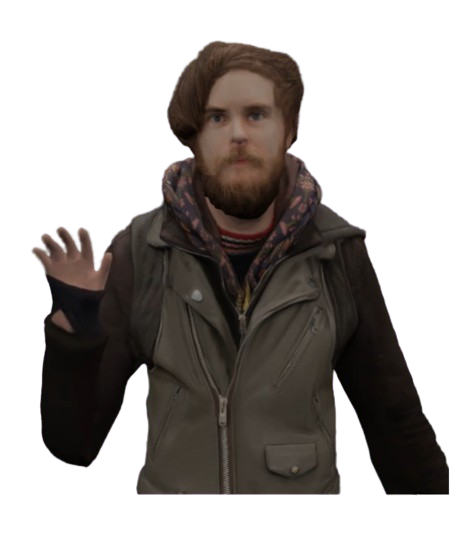
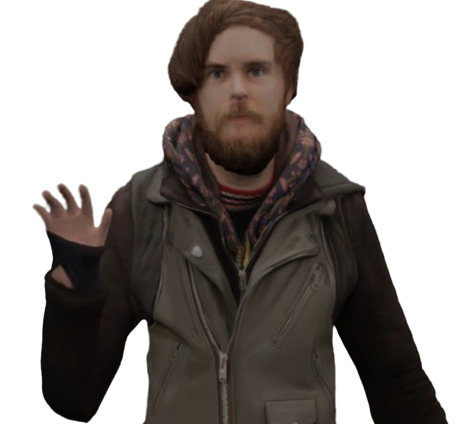
subscription screen

diff --git a/frontend/lib/screens/primary/subscription.dart b/frontend/lib/screens/primary/subscription.dart
@@ -171,38 +171,48 @@ class _SubscriptionState extends State<Subscription> {
                                     ],
                                   ),
                                 ),
-                                const SizedBox(height: 4),
-                                Row(
-                                  children: [
-                                    Text(
-                                      "\$30",
-                                      style:
-                                          Theme.of(context).textTheme.bodySmall,
-                                    ),
-                                    Text(
-                                      "/month",
-                                      style:
-                                          Theme.of(context).textTheme.bodySmall,
-                                    ),
-                                  ],
-                                ),
-                                Center(
-                                  child: ElevatedButton(
-                                    onPressed: () {},
-                                    child: Text("Choose"),
+                                const Spacer(),
+                                Padding(
+                                  padding: const EdgeInsets.only(
+                                      left: 8, bottom: 20),
+                                  child: Column(
+                                    children: [
+                                      Row(
+                                        children: [
+                                          Text(
+                                            "\$30",
+                                            style: Theme.of(context)
+                                                .textTheme
+                                                .bodySmall,
+                                          ),
+                                          Text(
+                                            "/month",
+                                            style: Theme.of(context)
+                                                .textTheme
+                                                .bodySmall,
+                                          ),
+                                        ],
+                                      ),
+                                      Center(
+                                        child: ElevatedButton(
+                                          onPressed: () {},
+                                          child: const Text("Choose"),
+                                        ),
+                                      )
+                                    ],
                                   ),
-                                )
+                                ),
                               ],
                             ),
                           ),
                           Positioned(
-                            right: 0,
-                            bottom: 30,
+                            right: -15,
+                            bottom: 60,
                             child: Image.asset(
                               'assets/images/avatar_2.png',
                               height: isMobile
-                                  ? screenHeight * 0.22
-                                  : screenHeight * 0.32,
+                                  ? screenHeight * 0.20
+                                  : screenHeight * 0.25,
                               width: isMobile
                                   ? screenWidth * 0.1
                                   : screenWidth * 0.2,
@@ -258,29 +268,39 @@ class _SubscriptionState extends State<Subscription> {
                                     ],
                                   ),
                                 ),
-                                const Row(
-                                  children: [
-                                    Text("\$30"),
-                                    Text("/month"),
-                                  ],
-                                ),
-                                Center(
-                                  child: ElevatedButton(
-                                    onPressed: () {},
-                                    style: ElevatedButton.styleFrom(
-                                        backgroundColor: primaryColor),
-                                    child: const Text(
-                                      "Choose",
-                                      style: TextStyle(color: Colors.white),
-                                    ),
+                                const Spacer(),
+                                Padding(
+                                  padding: const EdgeInsets.only(
+                                      left: 8, bottom: 20),
+                                  child: Column(
+                                    children: [
+                                      const Row(
+                                        children: [
+                                          Text("\$50"),
+                                          Text("/month"),
+                                        ],
+                                      ),
+                                      Center(
+                                        child: ElevatedButton(
+                                          onPressed: () {},
+                                          style: ElevatedButton.styleFrom(
+                                              backgroundColor: primaryColor),
+                                          child: const Text(
+                                            "Choose",
+                                            style:
+                                                TextStyle(color: Colors.white),
+                                          ),
+                                        ),
+                                      )
+                                    ],
                                   ),
-                                )
+                                ),
                               ],
                             ),
                           ),
                           Positioned(
                             right: -2,
-                            bottom: 20,
+                            bottom: -5,
                             child: Image.asset(
                               'assets/images/avatar_image.png',
                               height: isMobile
